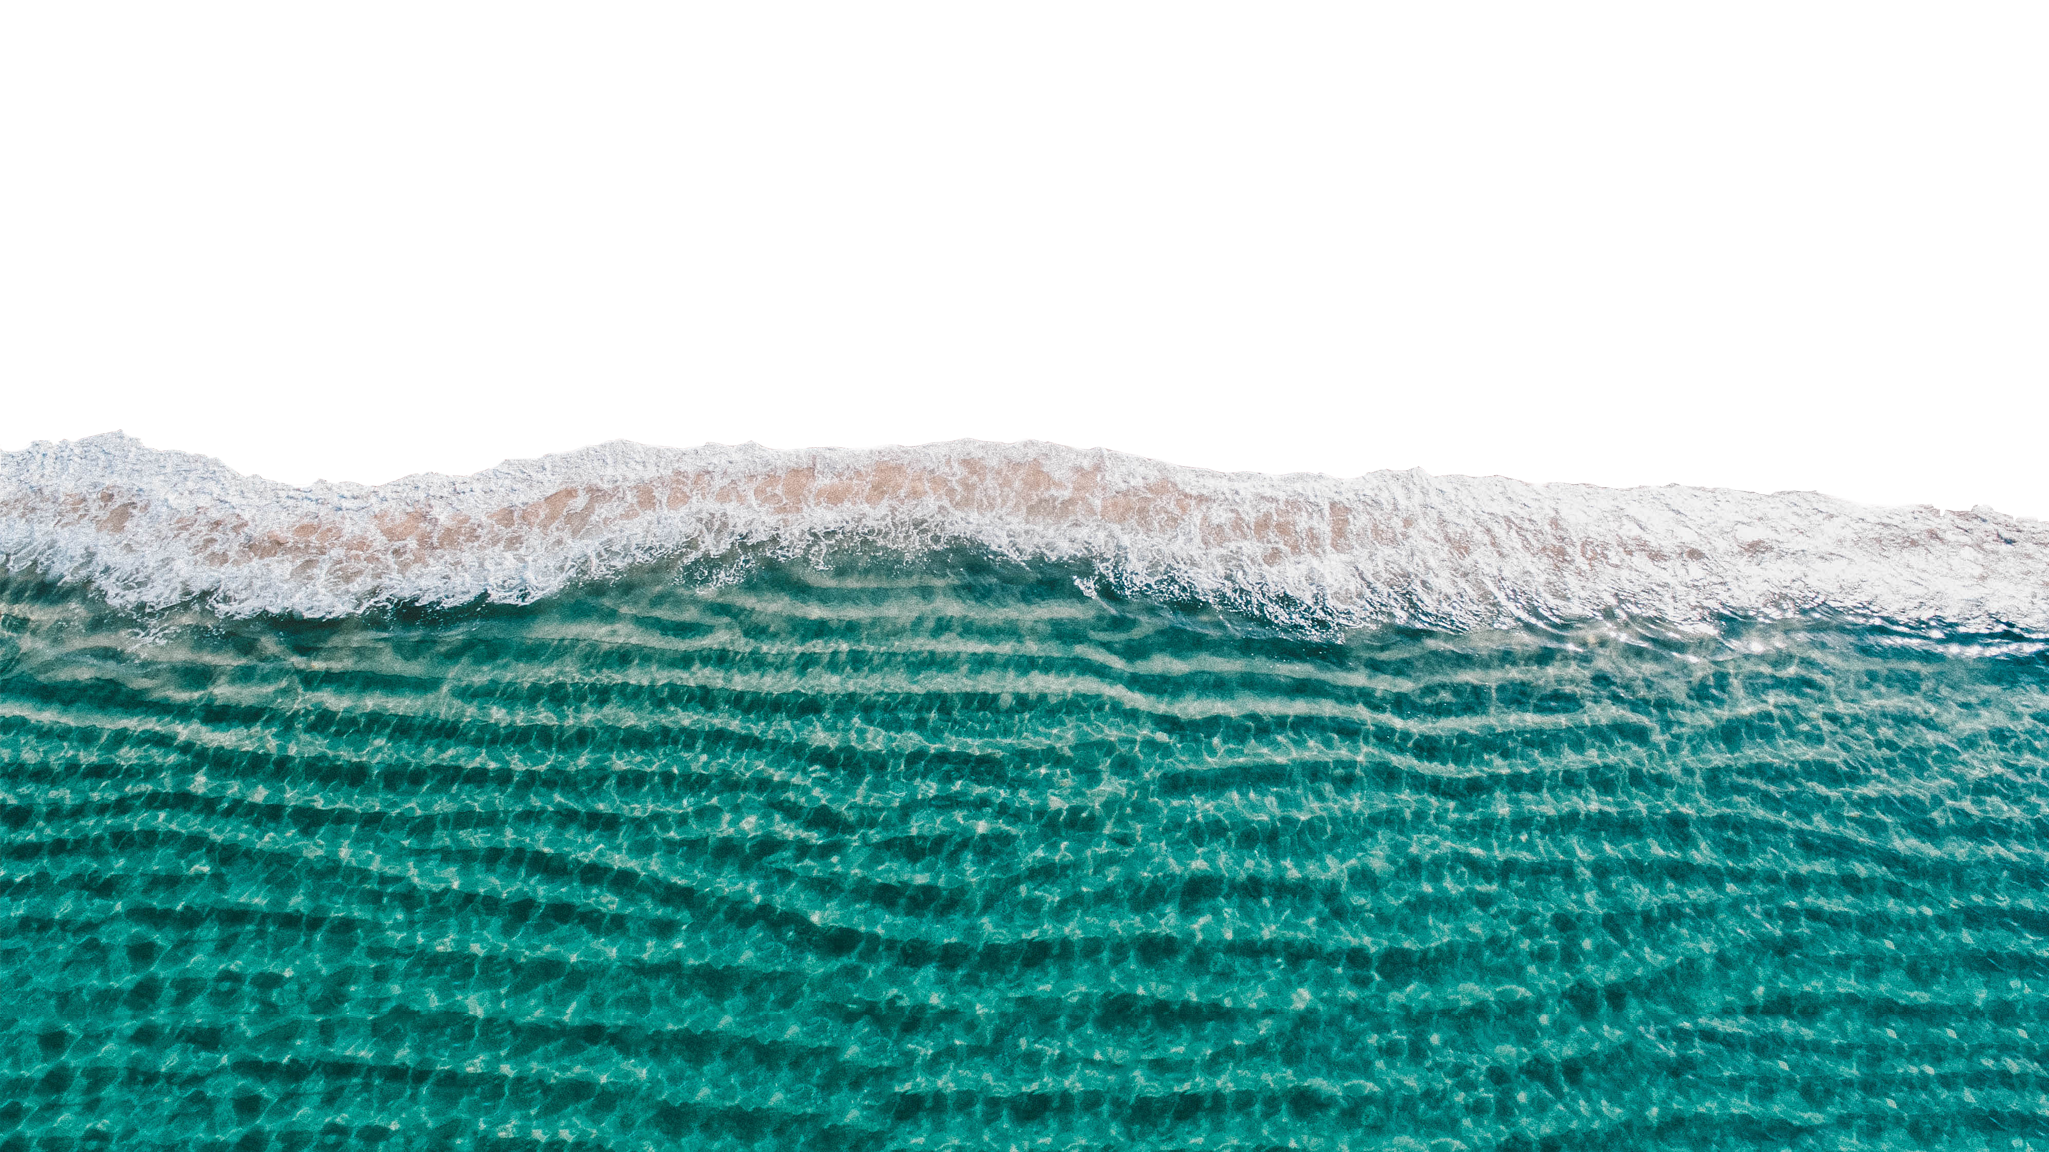
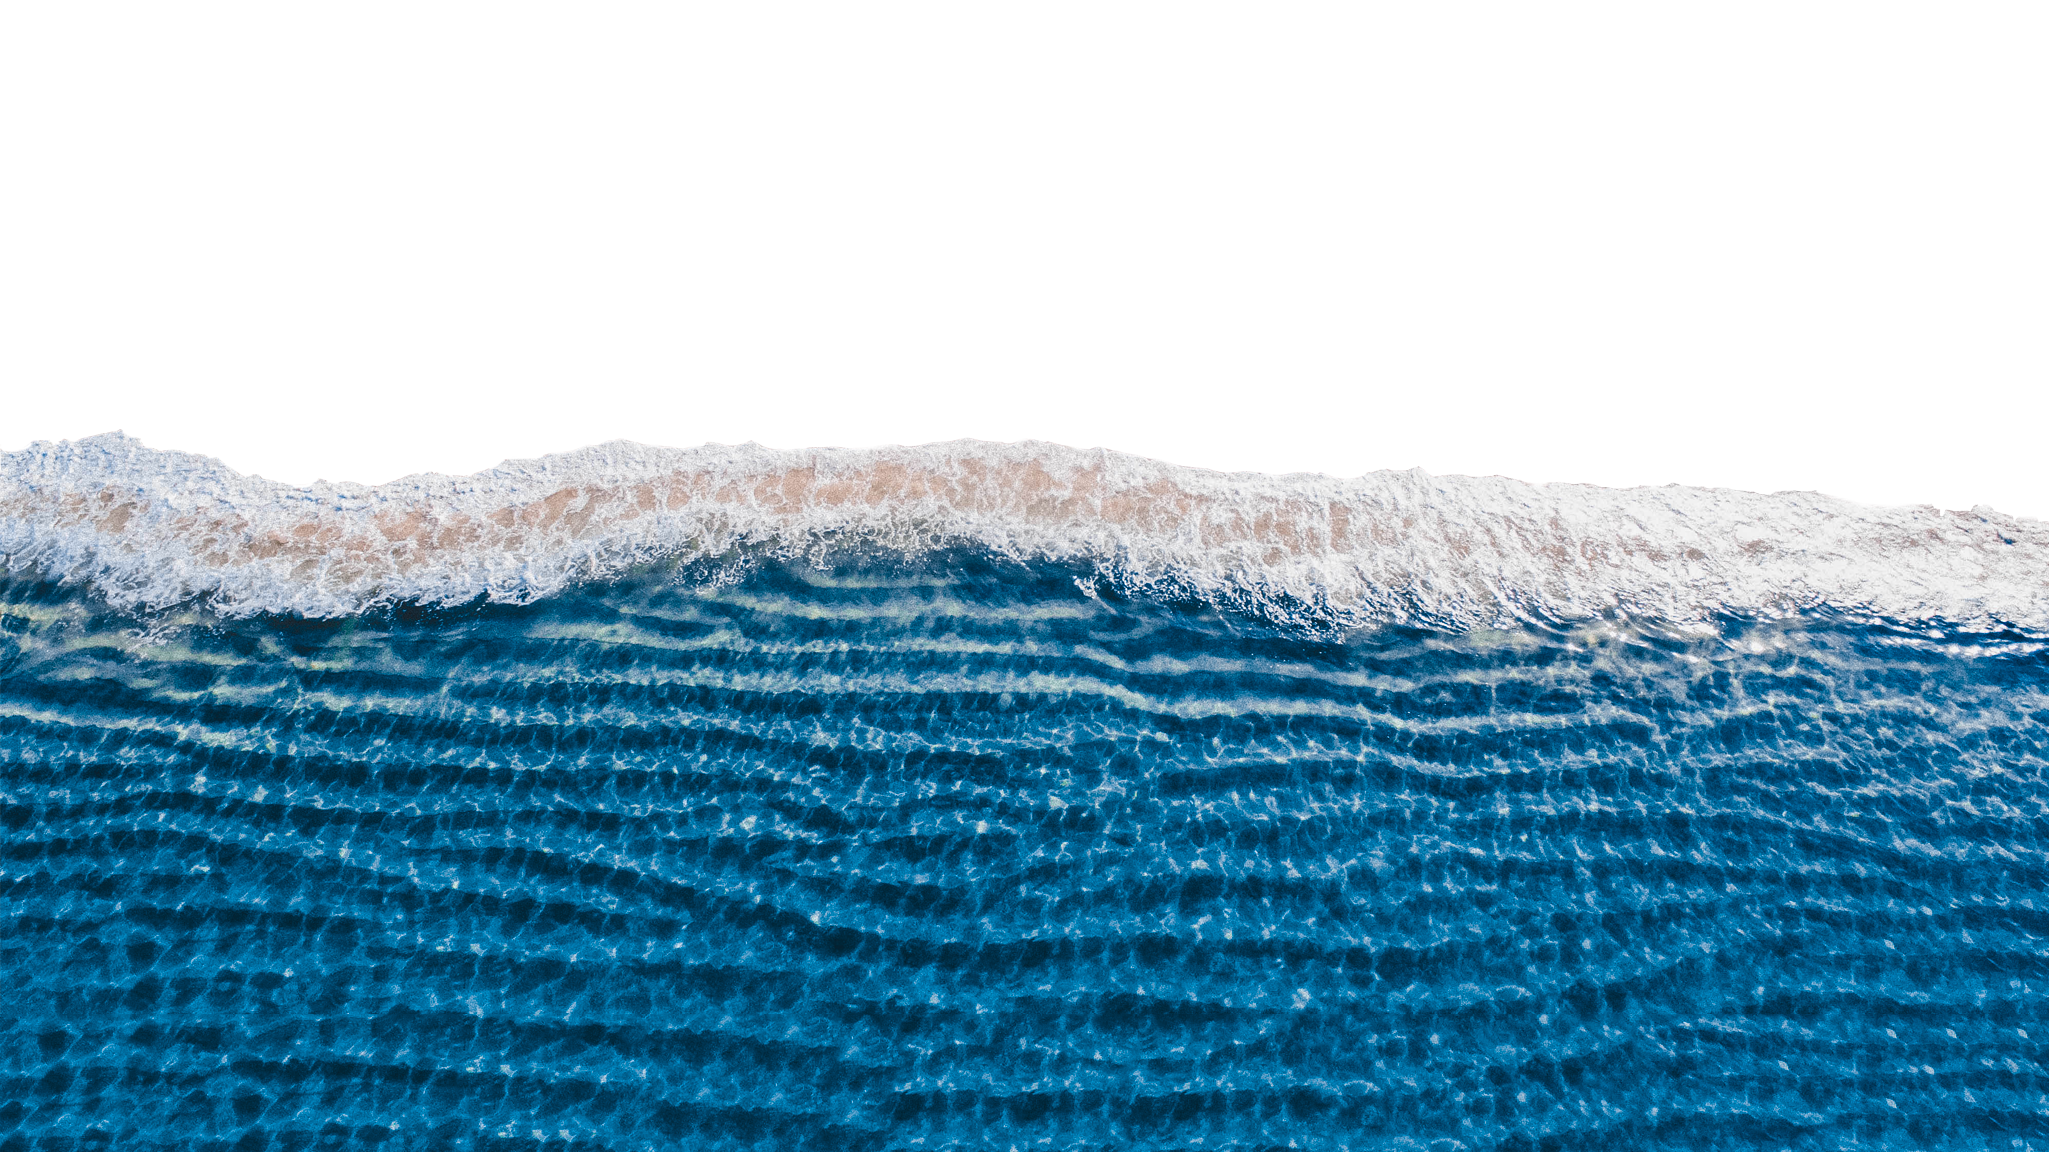
me lene giorgo

diff --git a/index.html b/index.html
@@ -162,15 +162,18 @@
                         <img src="Images/1stpic.jpg" id="lala">
                     </section >
                 </section >
-                <h2 class="centertitle">Ocean Pollution</h2>
-                <p id="secondParagraph"> 
-                    Ocean water covers more than 70 percent of the Earth, and only in recent decades have we begun to understand how humans impact this watery habitat. Marine pollution, as distinct from overall water pollution, focuses on human-created products that enter the ocean.
+                <div class="container">
 
-                    Before 1972, humans around the word spewed trash, sewage sludge, and chemical, industrial, and radioactive wastes into the ocean with impunity. Millions of tons of heavy metals and chemical contaminants, along with thousands of containers of radioactive waste, were purposely thrown into the ocean.
-                    The London Convention, ratified in 1975 by the United States, was the first international agreement to spell out better protection for the marine environment. The agreement implemented regulatory programs and prohibited the disposal of hazardous materials at sea. An updated agreement, the London Protocol, went into effect in 2006, more specifically banning all wastes and materials except for a short list of items, like leftover materials from dredging.
+                        <h2 class="centertitle">Ocean Pollution</h2>
+                        <p id="secondParagraph"> 
+                            Ocean water covers more than 70 percent of the Earth, and only in recent decades have we begun to understand how humans impact this watery habitat. Marine pollution, as distinct from overall water pollution, focuses on human-created products that enter the ocean.
+
+                            Before 1972, humans around the word spewed trash, sewage sludge, and chemical, industrial, and radioactive wastes into the ocean with impunity. Millions of tons of heavy metals and chemical contaminants, along with thousands of containers of radioactive waste, were purposely thrown into the ocean.
+                            The London Convention, ratified in 1975 by the United States, was the first international agreement to spell out better protection for the marine environment. The agreement implemented regulatory programs and prohibited the disposal of hazardous materials at sea. An updated agreement, the London Protocol, went into effect in 2006, more specifically banning all wastes and materials except for a short list of items, like leftover materials from dredging.
 
 Many of these pollutants sink to the ocean's depths or float far distances from their original source, where they are consumed by small marine organisms and introduced into the global food chain. Marine pollution encompasses many types of pollution that disrupt the marine ecosystem, including chemical, oil, noise, and plastic pollution.
-                </p>
+                        </p>
+                </div>
             </article>
         </section>
         

diff --git a/style.css b/style.css
@@ -28,7 +28,7 @@
     bottom: 0;
     width: 100%;
     height: 100px;
-    background: linear-gradient(to top, #05413d,transparent);
+    background: linear-gradient(to top, #001c29,transparent);
     z-index: 10;
     
 }
@@ -87,7 +87,7 @@ section img
     width: 100%;
     height: 100%;
     padding-top: 50px;
-    background:linear-gradient(-45deg,#04978c,#011f1d,#013330, #04978c);
+    background:linear-gradient(-45deg,#0074a9,#02161f,#001c29, #0074a9);
     background-size: 400% 400%;
     color: rgb(245, 245, 245);
     line-height: 1.45;
@@ -166,8 +166,8 @@ section img
     height: 100%;
     background: radial-gradient(
         ellipse at center,
-        #04978c 0%,
-        #04978c 70%,
+        #0074a9 0%,
+        #0074a9 70%,
         rgba(0, 128, 172, 0) 70.3%
     );
     position: relative;

diff --git a/Footer/Footer.css b/Footer/Footer.css
@@ -6,7 +6,7 @@
 .footer2{
     background-color: #111;
     height: auto;
-    width: 100vw;
+    width: 100%;
     padding-top: 40px;
     color: #fff;
 }

diff --git a/Menu/Menu.css b/Menu/Menu.css
@@ -7,7 +7,7 @@
 
 .nav-container {
     width: 100%;
-    background-color: #c0bea8;
+    background-color: #0074a9;
 }
 
 
